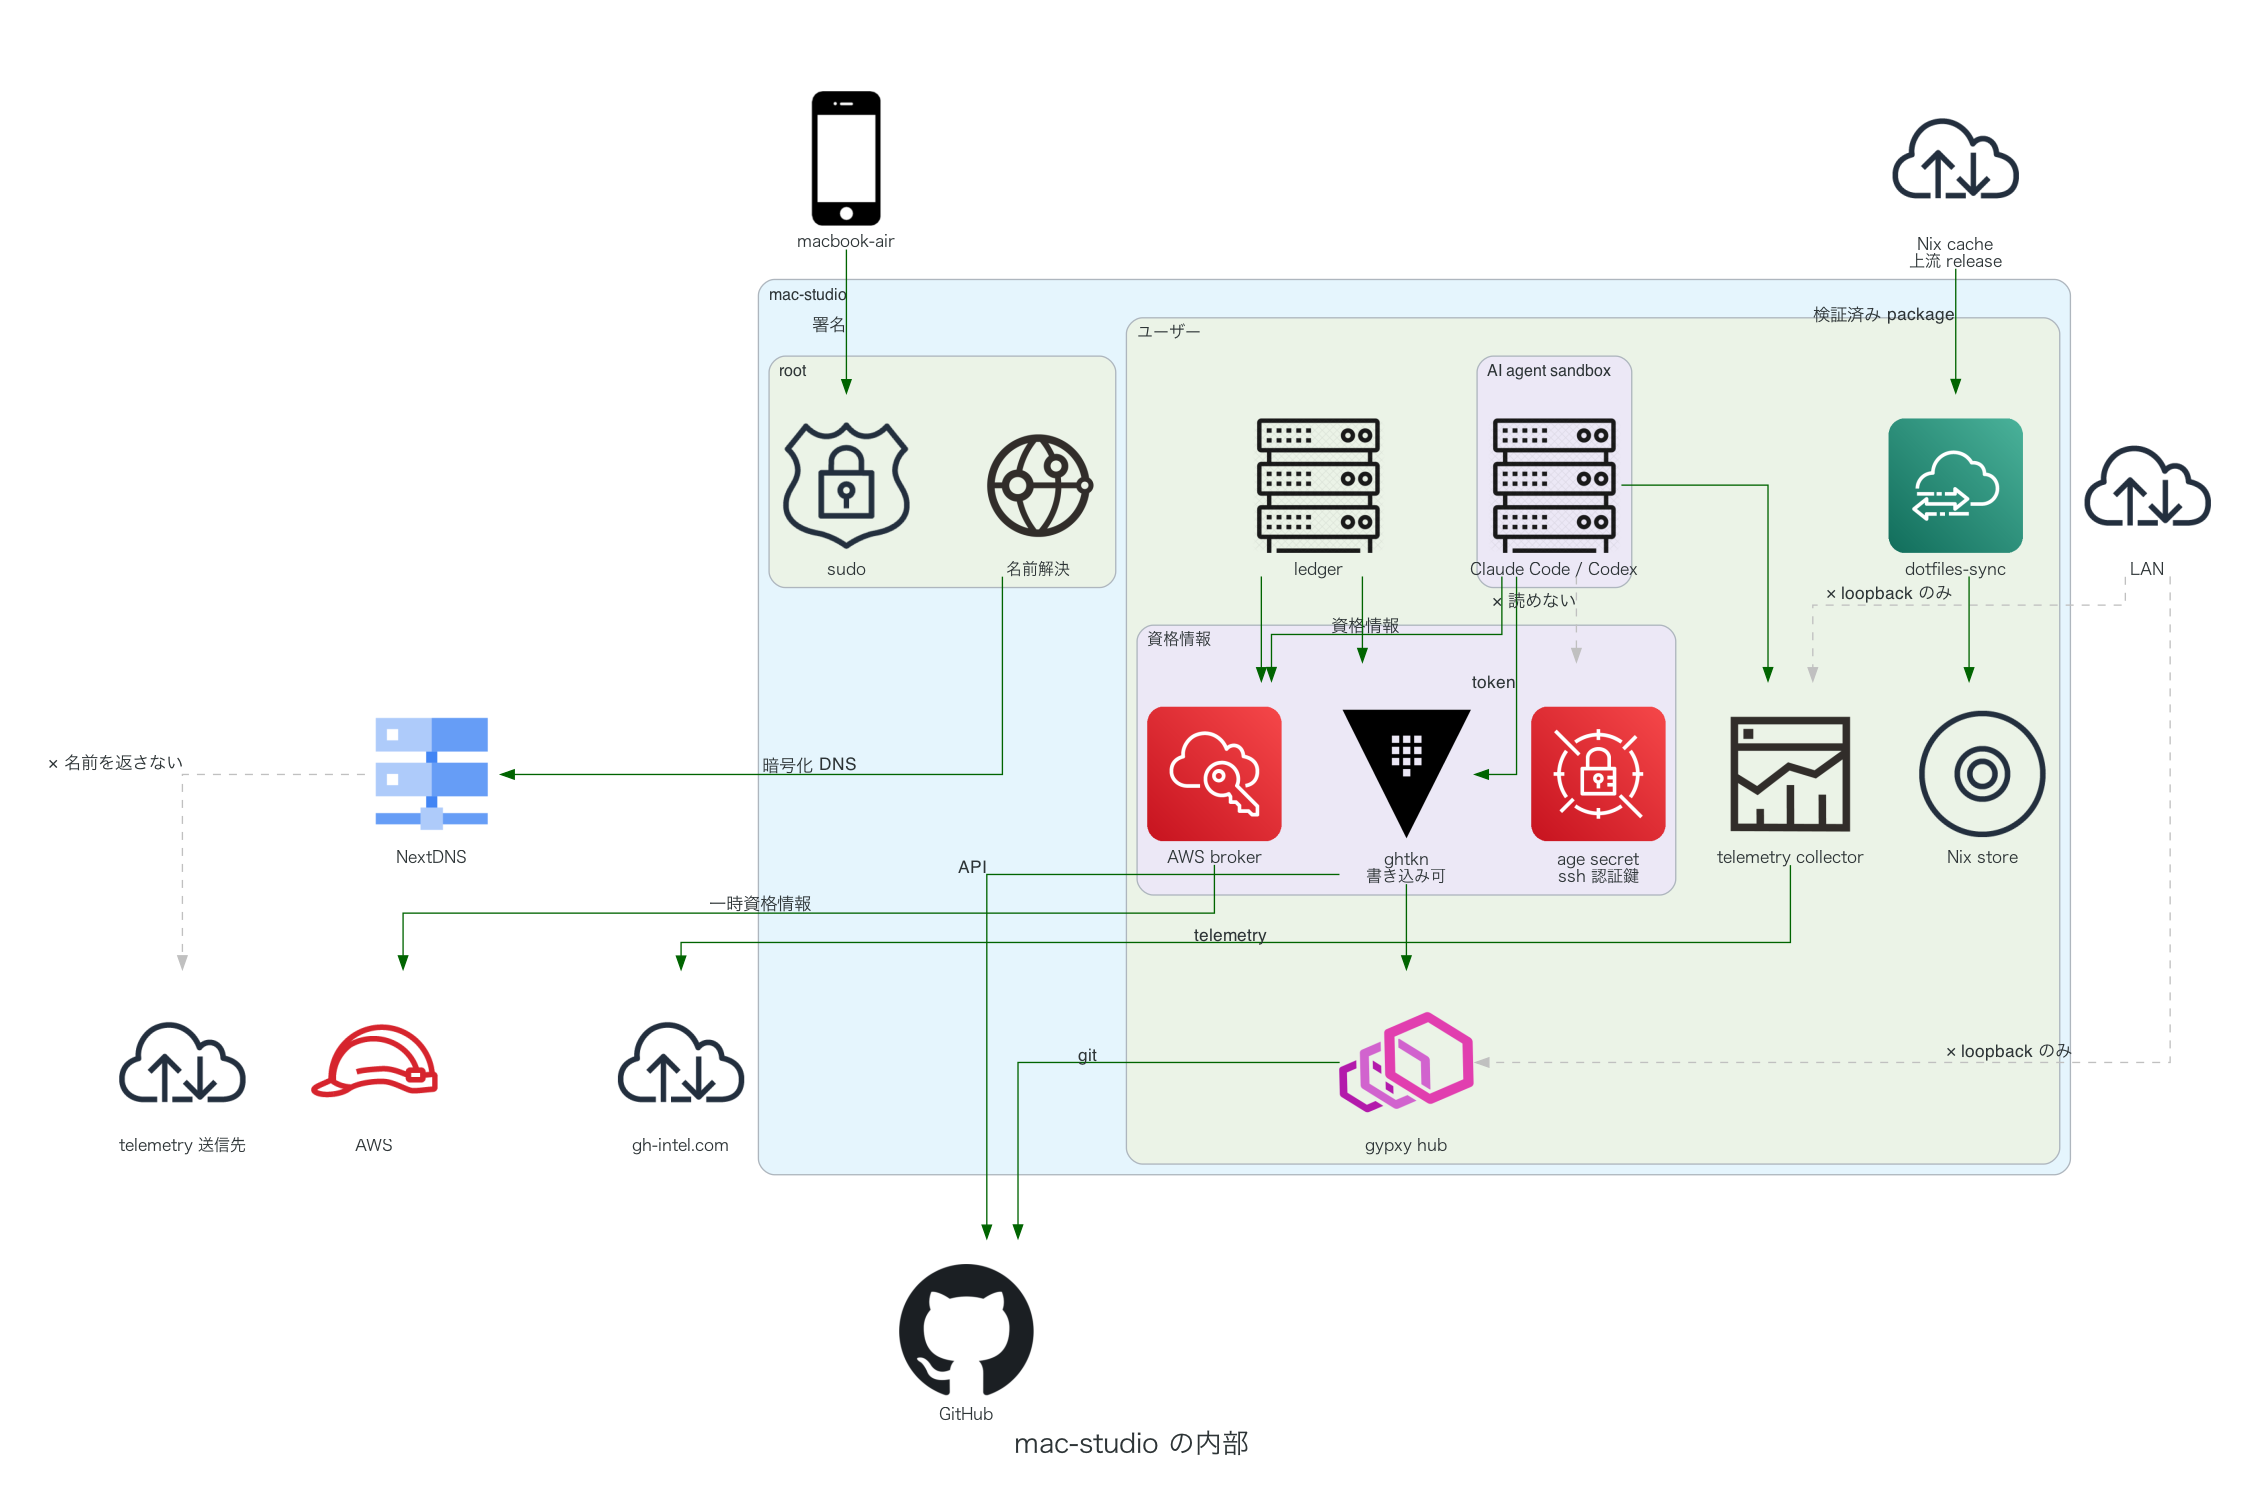
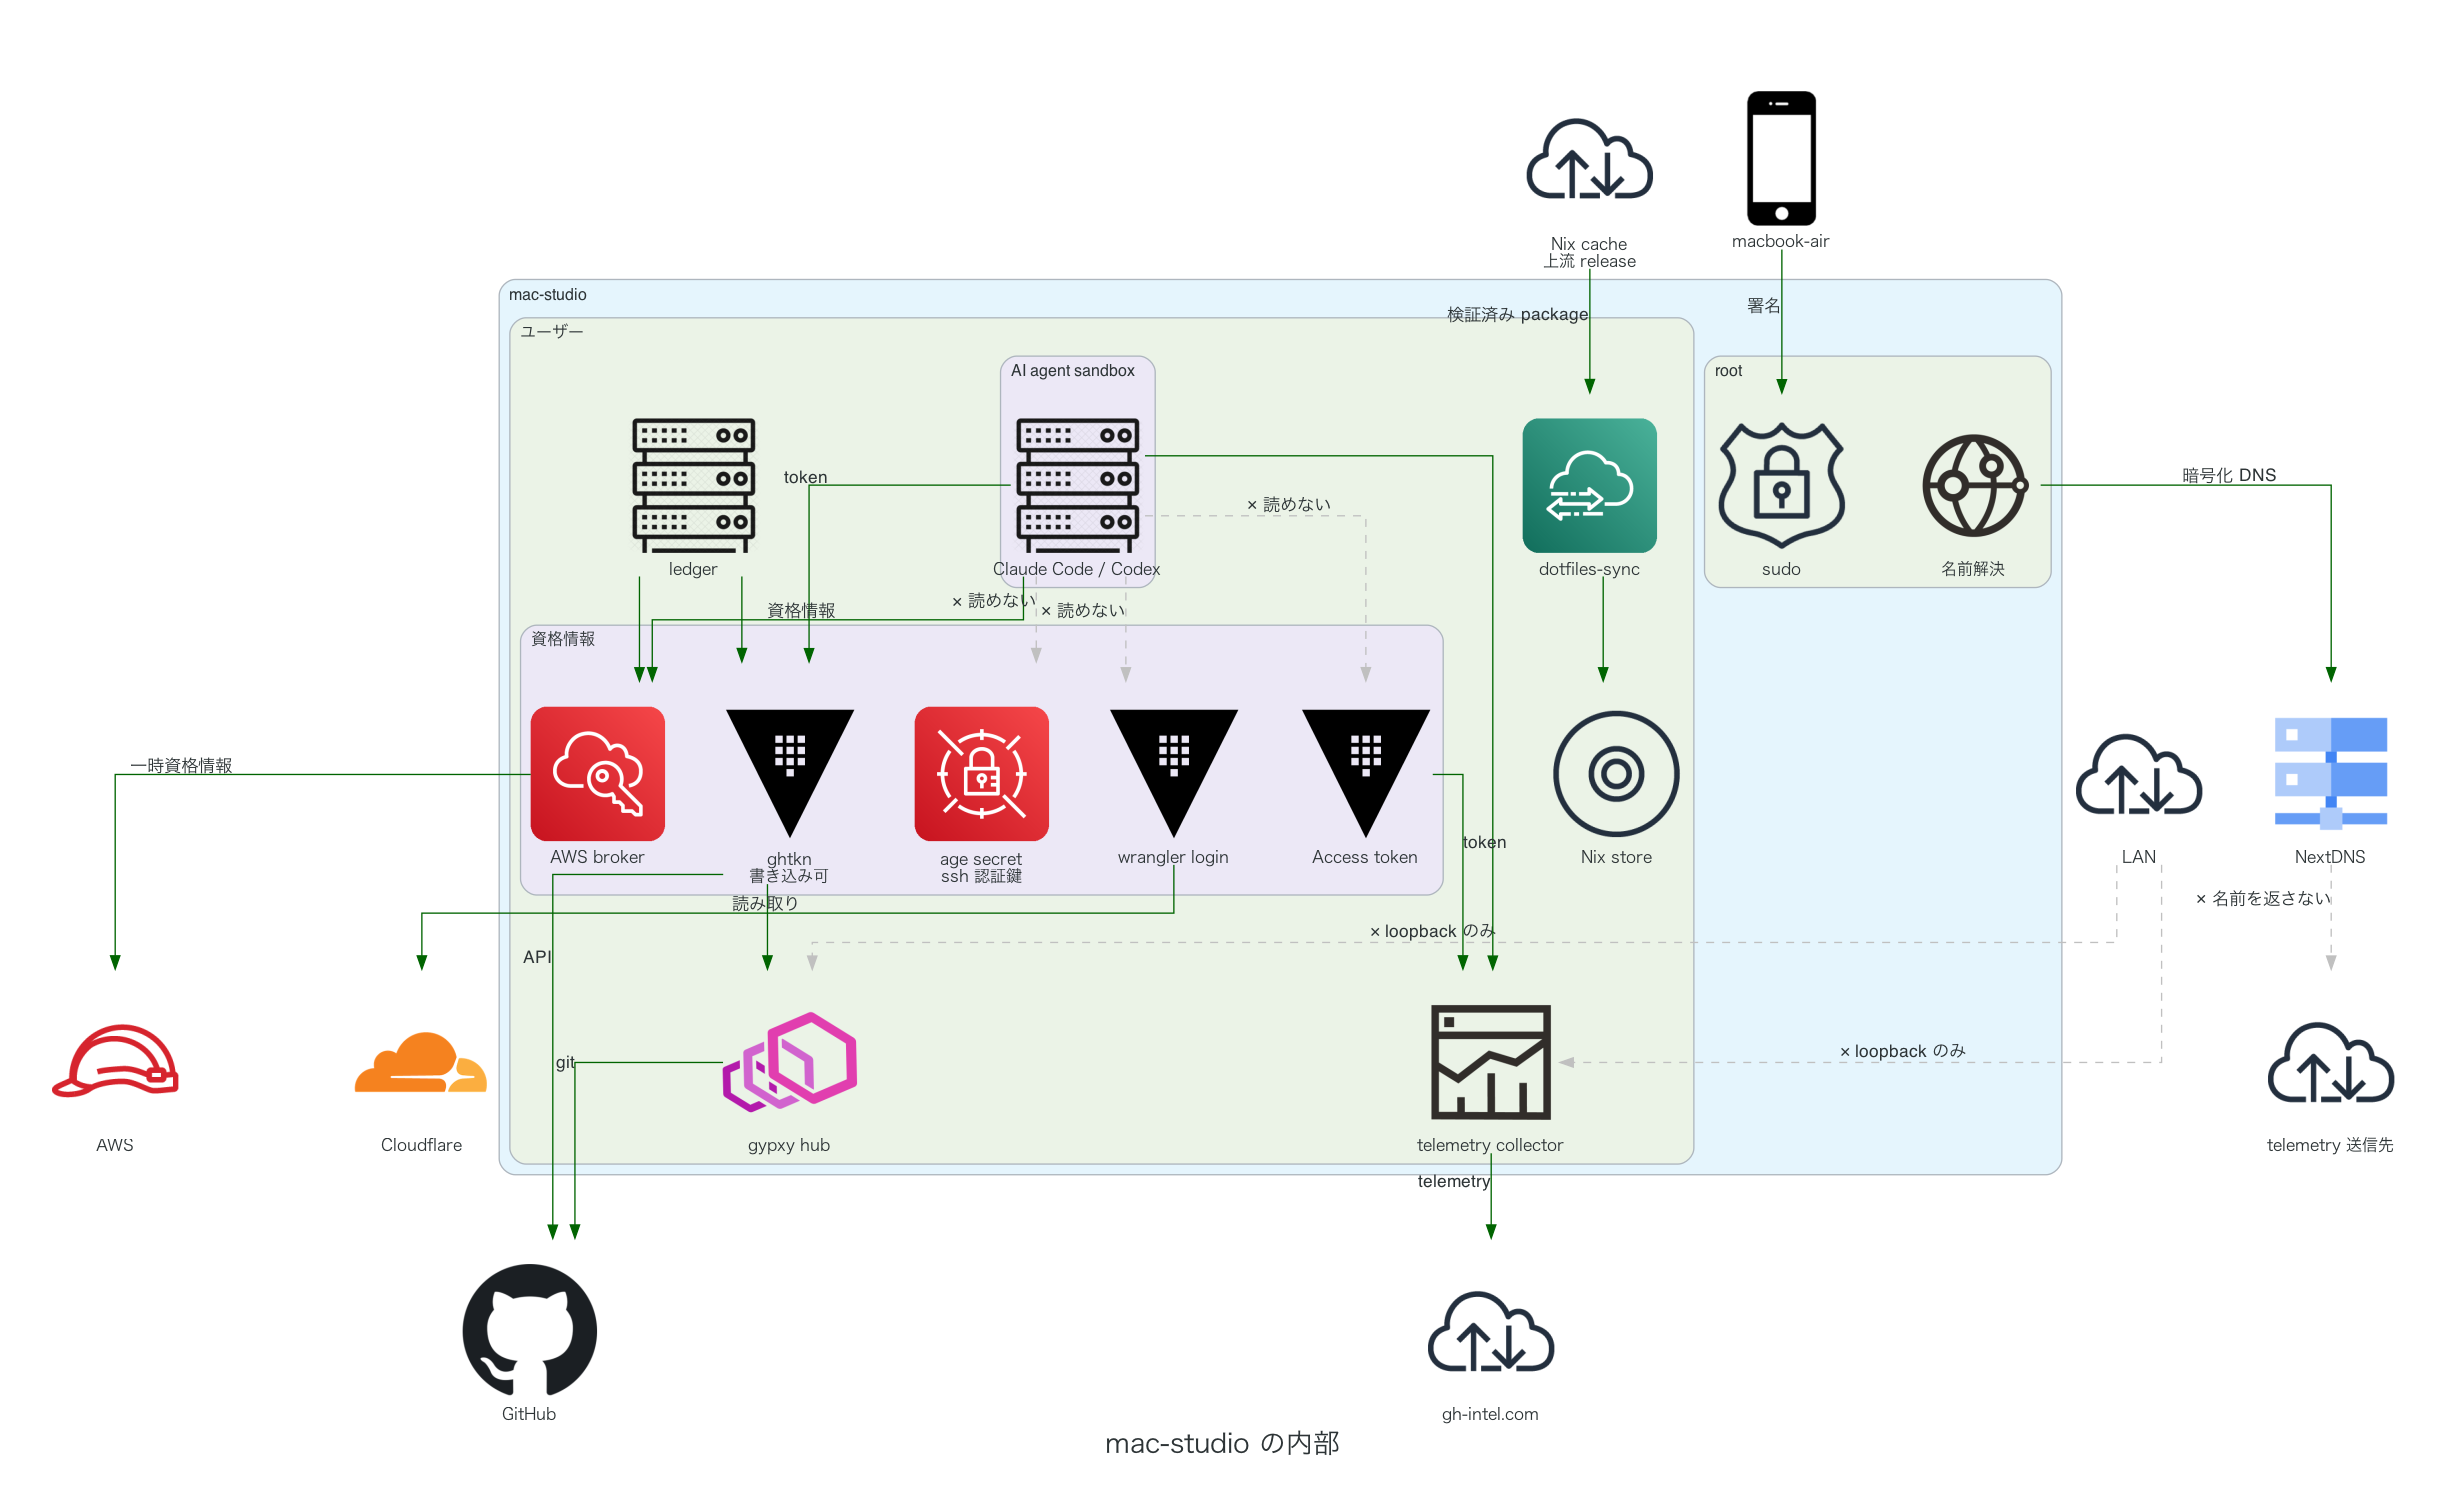
cloudflare: wrangler と Access の資格情報を sandbox から隠し、macbook-air に置かない (#377)

diff --git a/docs/security/policy_diagram.py b/docs/security/policy_diagram.py
@@ -2,7 +2,7 @@
 # requires-python = ">=3.11"
 # dependencies = ["diagrams==0.24.4"]
 # ///
-"""主体 (人間・AI)・端末・AWS アカウントごとの権限を図にする。
+"""主体 (人間・AI)・端末・AWS アカウント・Cloudflare ごとの権限を図にする。
 
 uv run docs/security/policy_diagram.py  →  docs/security/policy.png
 """
@@ -18,6 +18,7 @@ from diagrams.generic.device import Mobile
 from diagrams.generic.os import Ubuntu
 from diagrams.onprem.client import Client
 from diagrams.onprem.vcs import Github
+from diagrams.saas.cdn import Cloudflare
 
 OUT = Path(__file__).with_name("policy")
 
@@ -30,7 +31,7 @@ node = {"fontname": "Hiragino Sans", "fontsize": "12"}
 edge = {"fontname": "Hiragino Sans", "fontsize": "11"}
 
 with Diagram(
-    "権限ポリシー: 人間 / AI / 端末 / AWS",
+    "権限ポリシー: 人間 / AI / 端末 / AWS / Cloudflare",
     filename=str(OUT),
     outformat="png",
     show=False,
@@ -48,6 +49,7 @@ with Diagram(
                 ai = Rack("Claude Code / Codex")
                 ledger = Rack("ledger")
                 broker = SingleSignOn("AWS 認証")
+                cflogin = SingleSignOn("Cloudflare login")
 
         with Cluster("信頼: 低"):
             with Cluster("ms-a2 tag:untrusted-dev"):
@@ -65,6 +67,9 @@ with Diagram(
             fleet = Organizations("Fleet 計画中\ntailnet 内からのみ")
         with Cluster("lab-seccamp26d2 931932531320"):
             lab = IAMRole("apply")
+
+    with Cluster("Cloudflare"):
+        cf = Cloudflare("gh-intel.com\nzone / Access / Workers")
 
     gh = Github("GitHub")
 
@@ -85,6 +90,10 @@ with Diagram(
     admin >> Edge(color=ROOT) >> apply
     admin >> Edge(color=ROOT) >> lab
     broker >> Edge(color=ALLOW) >> sisaku
+    studio >> Edge(color=ALLOW) >> cflogin
+    cflogin >> Edge(color=ALLOW, xlabel="読み取り") >> cf
+    ai >> Edge(color=DENY, style="dashed", xlabel="✕ 読めない") >> cflogin
+    gh >> Edge(color=ROOT, xlabel="IaC CI") >> cf
     gh >> Edge(color=ALLOW, xlabel="配布 CI + approve") >> fleet
     fleet >> Edge(color=ROOT, style="bold", xlabel="管理") >> air
     fleet >> Edge(color=ROOT, style="bold", xlabel="管理") >> studio

diff --git a/docs/security/device_diagram.py b/docs/security/device_diagram.py
@@ -26,6 +26,7 @@ from diagrams.onprem.ci import GithubActions
 from diagrams.onprem.network import Envoy, Internet
 from diagrams.onprem.security import Vault
 from diagrams.onprem.vcs import Github
+from diagrams.saas.cdn import Cloudflare
 
 HERE = Path(__file__).parent
 
@@ -82,6 +83,9 @@ def mac(name, studio):
                     if studio:
                         broker = SingleSignOn("AWS broker")
                     secrets = SecretsManager("age secret\nssh 認証鍵")
+                    access = Vault("Access token")
+                    if studio:
+                        wrangler = Vault("wrangler login")
                 hub = Envoy("gypxy hub")
                 otel = Telemetry("telemetry collector")
 
@@ -90,6 +94,7 @@ def mac(name, studio):
         github = Github("GitHub")
         aws = IAMRole("AWS") if studio else None
         collector = Internet("gh-intel.com")
+        cloudflare = Cloudflare("Cloudflare")
 
         flow(operator, sudo, "署名" if studio else "Touch ID")
         if not studio:
@@ -104,6 +109,10 @@ def mac(name, studio):
             flow(agent, broker, "資格情報")
         flow(agent, otel)
         deny(agent, secrets, "読めない")
+        deny(agent, access, "読めない")
+        if studio:
+            deny(agent, wrangler, "読めない")
+            flow(wrangler, cloudflare, "読み取り")
         if studio:
             flow(ledger, ghtkn)
             flow(ledger, broker)
@@ -115,6 +124,7 @@ def mac(name, studio):
         flow(ghtkn, github, "API")
         if studio:
             flow(broker, aws, "一時資格情報")
+        flow(access, otel, "token")
         flow(otel, collector, "telemetry")
 
 

diff --git a/docs/solutions/secrets/cloudflare-credentials.md b/docs/solutions/secrets/cloudflare-credentials.md
@@ -1,0 +1,23 @@
+# Cloudflare の資格情報は host 専用にし、変更は IaC の CI だけが行う
+
+## 決定
+
+- Cloudflare のリソース変更は IaC の main push から CI で apply する。zone・Access・account member は `gh-intel/gh-intel.com`、Workers の deploy token は同 state の出力を `HikaruEgashira/iac-github` (`cloudflare-workers/`) が repo の Actions secret に配る。CI の API token は AWS Secrets Manager にあり、GitHub OIDC でだけ取り出す (`landing-zone` `bootstrap/cloudflare_ci.tf`)
+- 端末には長期の API token を置かない。端末にある Cloudflare の資格情報は次の 2 種類で、どちらも host 専用にする
+  - wrangler の OAuth (`~/.config/.wrangler/config/default.toml`)。access token は短命、refresh token は長命
+  - cloudflared の Access session (`~/.cloudflared/<org>-org-token`) と app token (`~/.cloudflared/<app>-*-token`)。claude-otel の refresh agent が otel.gh-intel.com の app token を `~/.local/state/claude-otel/token` に書き、collector が送信に使う
+- AI agent の sandbox は上記 3 path を read / write とも deny する (`modules/programs/harness/ai-sandbox.nix`)。collector と refresh agent は launchd で sandbox 外に動くので影響しない
+- macbook-air は `dotfiles.cloudflare.enable = false`。activation が wrangler の login と otel 以外の Access token を消す。telemetry の送信は維持するため、otel の app token と org session だけ残す
+
+## 根拠
+
+1. **端末に API token が無い。** 2026-11-28 時点の調査で、端末にある Cloudflare の資格情報は wrangler の OAuth と cloudflared の Access token だけだった。変更系の token は CI 側にあり、AWS と同じく「端末は読む、書くのは CI」の形がすでにできている。
+2. **broker を作らない。** AWS は sandbox から AWS API を呼ぶ需要があり、STS で短命の資格情報を渡せるので broker を置いた。Cloudflare には STS が無く、短命化の手段は「`/user/tokens` で期限付き token を発行できる親 token」だけになる。親 token は API token 作成権限を持ち、broker が持っても漏洩時の影響は現状の OAuth より大きい。sandbox からの変更需要も IaC の PR で満たせるので、sandbox では Cloudflare を使えないことを既定にする。
+3. **既定は読み取り。** 書き込みは IaC の main push だけが行う。host で wrangler を使う場合も、読み取りで足りる作業は `wrangler login --scopes account:read user:read` で login する。書き込みが要る手作業は IaC に寄せる。
+4. **macbook-air の Access session を残す理由。** Claude Code の telemetry は gh-intel.com の Access で保護された collector に送る。otel の app token の再発行には org session が要る。
+
+## 運用
+
+- login: host の terminal (sandbox 外) で `wrangler login` / `cloudflared access login <app>` を実行する
+- 短命 token が要る自動化を足すときは、親 token を age secret に置かず AWS Secrets Manager に置き、CI か host の broker から `/user/tokens` で TTL 付きの token を発行する
+- 固定: `tests/ai-sandbox-deny-lists.sh` が deny path、flake check `thin-client-no-cloudflare` が macbook-air の無効化を検査する
